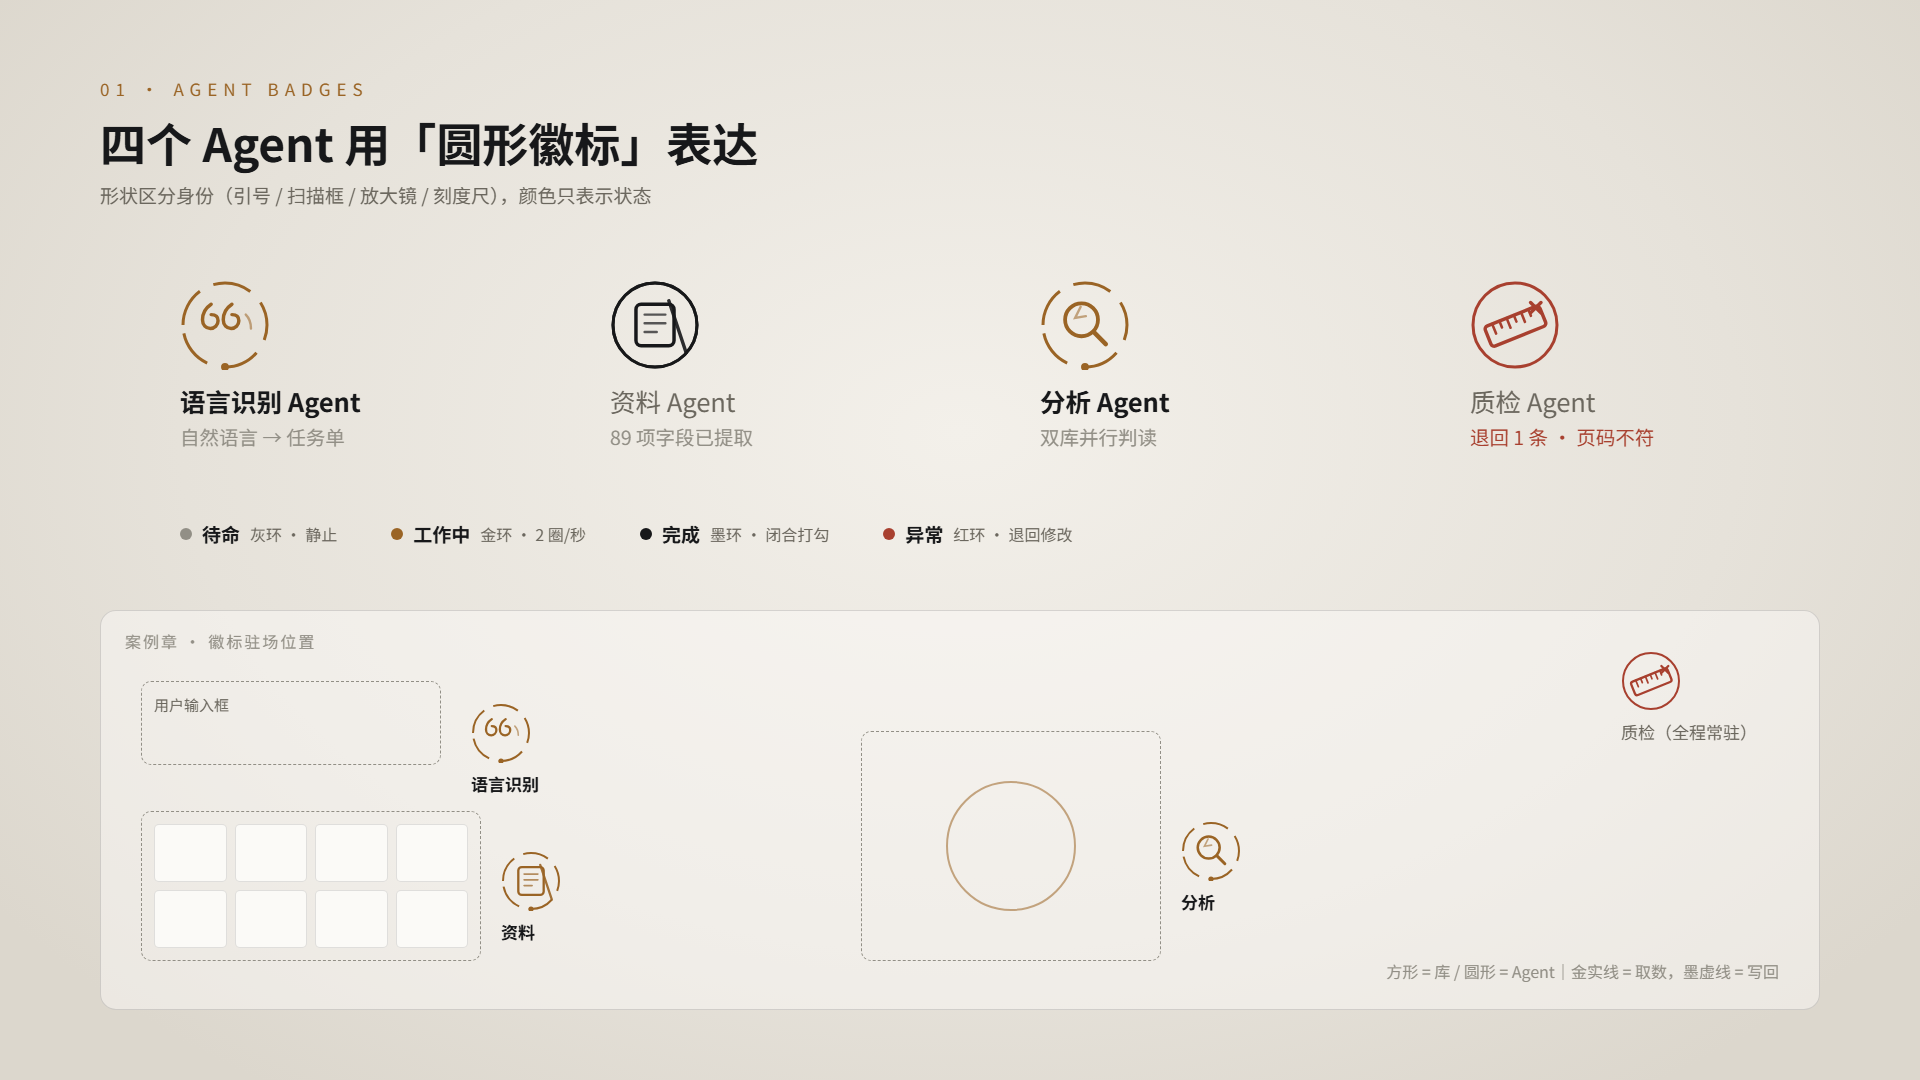
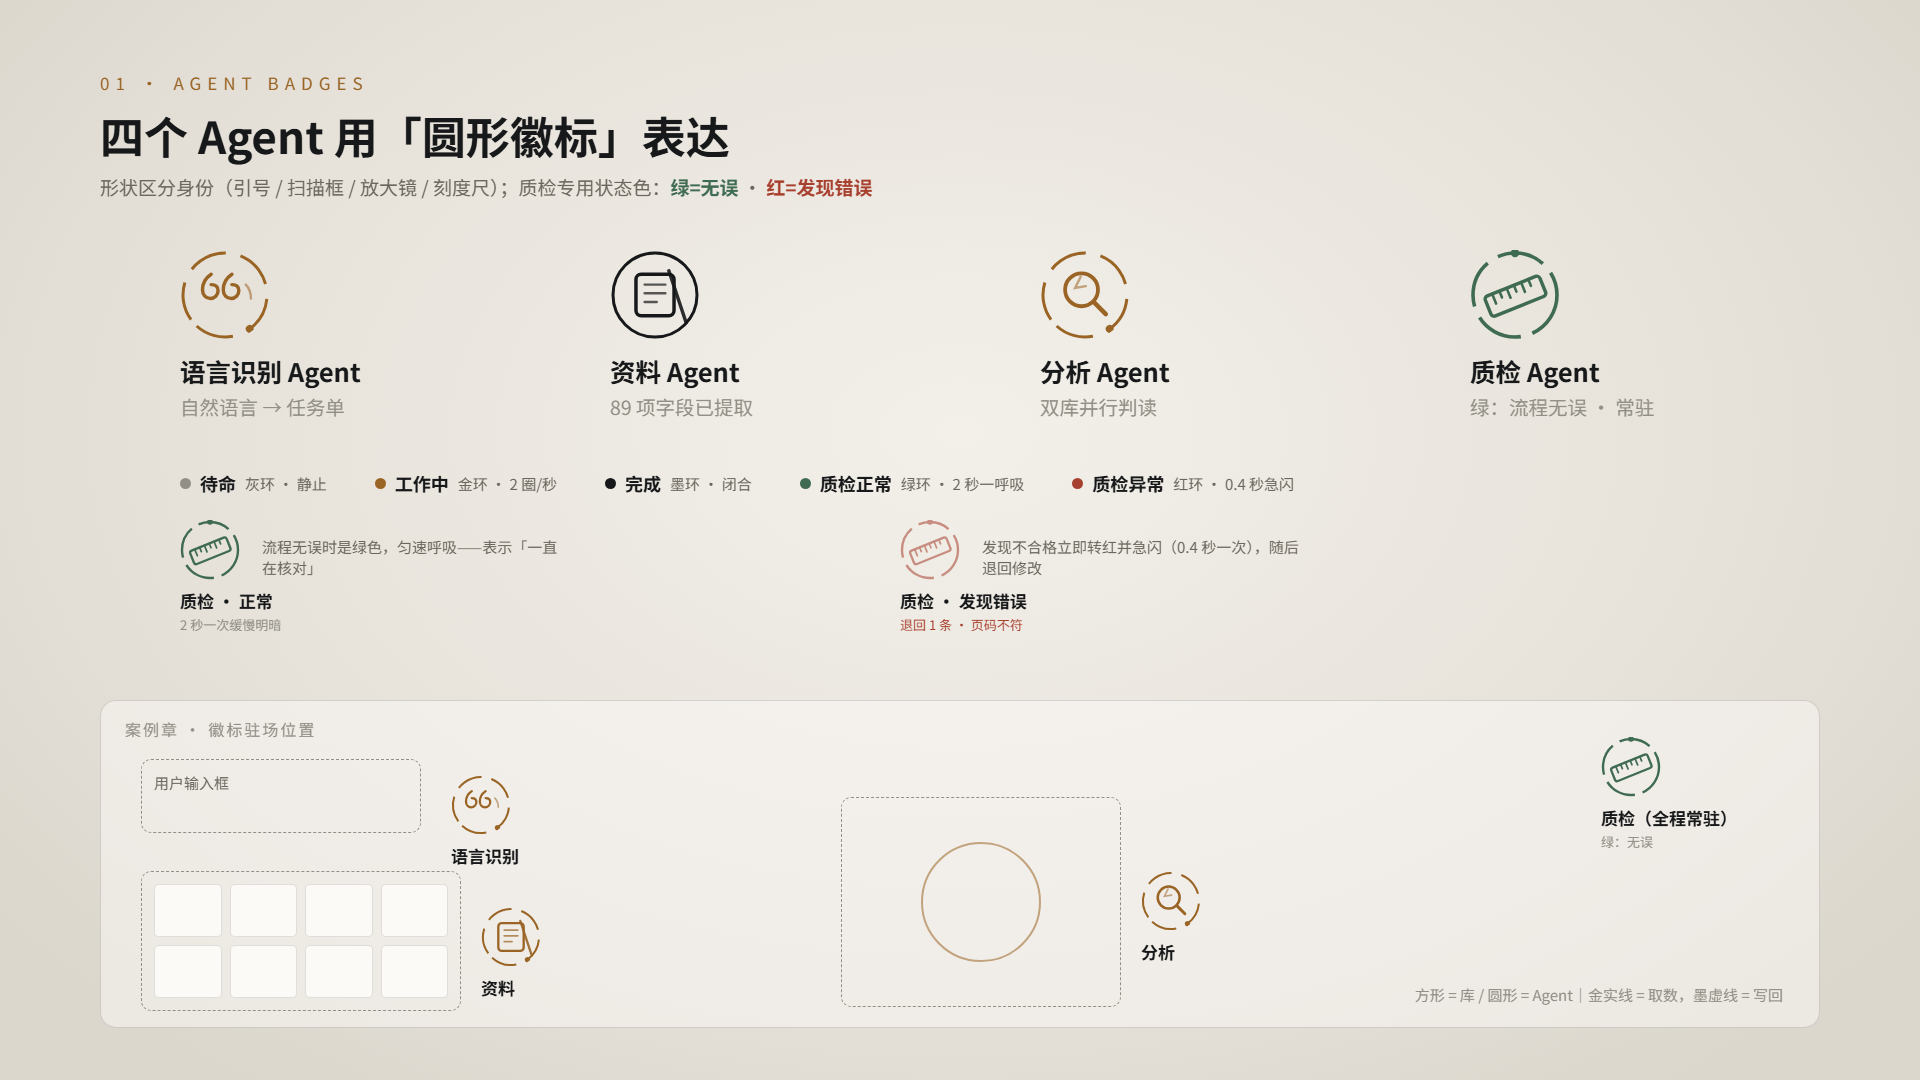
docs(agent): 质检常态绿/异常红+闪烁，去掉红叉；徽标样图更新

diff --git a/docs/四个Agent视觉方案.md b/docs/四个Agent视觉方案.md
@@ -39,12 +39,12 @@
 | ① 语言识别 | **双引号 + 弧线** | `"` 加两道同心弧 | 从人话里提取信息 |
 | ② 资料 | **扫描框** | 方框 + 一条斜线穿过 | 逐份扫、逐页提 |
 | ③ 分析 | **放大镜** | 镜圈 + 手柄 + 镜面反光 | 查库、看清细节、找出问题 |
-| ④ 质检 | **刻度尺** | 斜置尺身 + 长短刻度（异常时右上角加叉） | 逐项比对、量出偏差 |
+| ④ 质检 | **刻度尺** | 斜置尺身 + 长短刻度 | 逐项比对、量出偏差 |
 
 四者在 56px 下的辨识度：引号（两个弧）／方框（直角）／放大镜（圆 + 斜柄）／尺子（斜置长条 + 刻度）——轮廓差异足够大，不会混。
 
 **为什么把「分析」换成放大镜**：原双环抽象，像光圈又像眼睛；放大镜与「查库、找问题」的语义直接对应。
-**为什么「质检」用带刻度的尺子**：质检做的是三查——页码对不对、数值一致不一致、结论有没有落到条文上，本质都是「量」。尺子的刻度就是这个动作的直接象形；异常时右上角加一个叉，语义从「已量」变「超差」。
+**为什么「质检」用带刻度的尺子**：质检做的是三查——页码对不对、数值一致不一致、结论有没有落到条文上，本质都是「量」。尺子的刻度就是这个动作的直接象形。**不加叉**：合格与否只靠颜色与闪烁节奏表达，画面更干净。
 
 ---
 
@@ -57,7 +57,8 @@
 | 待命 | 灰 `#928f86` | 灰，静止 | 灰 |
 | 工作中 | 金 `#9a6425` | 金，顺时针转（2 圈/秒），环上有 3 个亮点跟随 | 墨 `#17181a`，加粗 |
 | 完成 | 墨 `#17181a` | 墨，静止，缺口闭合 | 灰 |
-| 异常 | 红 `#a8402f` | 红，静止 | 红，附「退回」小标 |
+| 质检正常 | **绿 `#3f6b52`** | 绿环，**2 秒一次缓慢明暗** | 墨 |
+| 质检异常 | **红 `#a8402f`** | 红环，**0.4 秒一次急闪** | 红，附「退回」小标 |
 
 **一句话**：颜色只表达状态，不表达身份；身份靠符号形状。
 
@@ -70,8 +71,8 @@
 | 出现 | 从 0.7 缩放 + 淡入 | 0.35s |
 | 转入工作 | 外环从灰转金，转速 0 → 2 圈/秒 | 0.4s |
 | 工作中（持续） | 3 个亮点沿环运动，每 0.9s 一圈 | 循环 |
-| 完成 | 转速归零，环缺口闭合成实心环，内圈打勾闪一次 | 0.5s |
-| 异常 | 环变红 + 徽标抖动 2px + 弹出「✕」 | 0.4s |
+| 完成 | 转速归零，环缺口闭合 | 0.5s |
+| 质检异常 | 环变红，整体亮度 0.55↔1.0 急闪（0.4 秒一周期），无图标变化 | 持续 |
 | 退回 | 徽标沿红色虚线飞向目标（仅质检用一次） | 1.2s，0.5 倍速 |
 
 ---
@@ -143,6 +144,6 @@
 
 ## 十、需要你确认的三件事
 
-1. **符号方案**：引号 / 扫描框 / 放大镜 / 刻度尺——已按你的意见替换（分析→放大镜、质检→刻度尺），请确认是否还有要调的。
+1. **符号方案**：引号 / 扫描框 / 放大镜 / 刻度尺——已定稿。
 2. **徽标 vs 拟人**：确认不走拟人路线（我建议不走）。
-3. **质检常驻**：是否同意它从 D1 就出现在右上角、全程不退场？这是"贯穿全程"最直接的表达，但也意味着画面右上角长期占一块。
+3. **质检常驻**：已确认——从 D1 起常驻右上角，全程不退场；**绿=流程无误（2 秒一呼吸）**，**红=发现错误（0.4 秒急闪）**，不用红叉。
